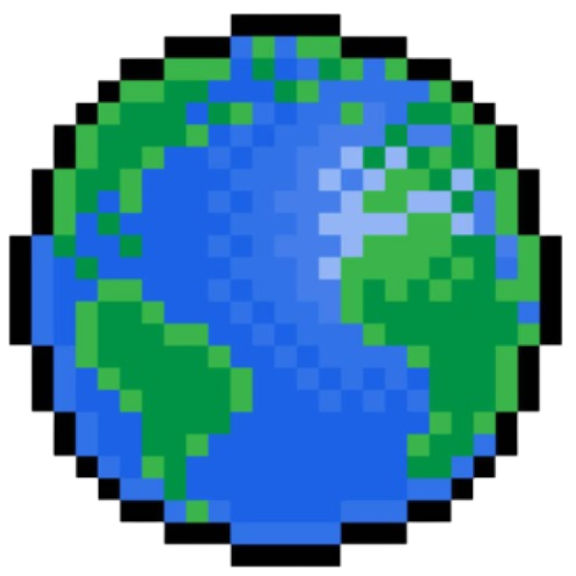
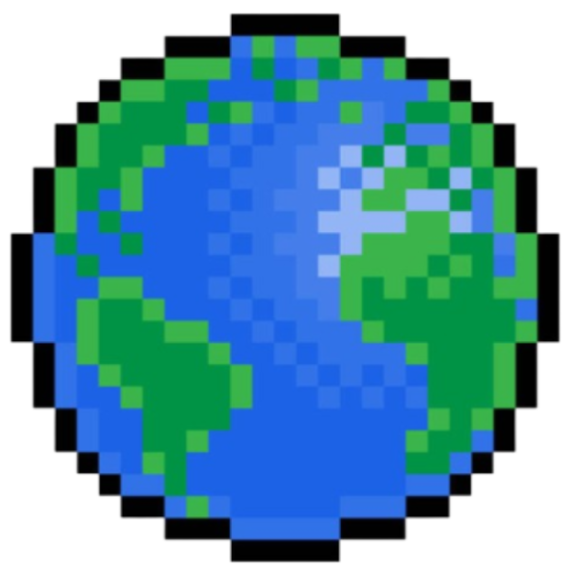
Oh wow background wooow

diff --git a/Capstone/GamePanel.java b/Capstone/GamePanel.java
@@ -21,11 +21,14 @@ public class GamePanel extends JPanel implements MouseListener{
     static Random random = new Random();
     Window window;
     Planet planet;
+
+    // Graphics and Panels
+    Image background;
     QTEPanel qtePanel;
     ObjectivePanel objPanel;
-
+    
     // GUI handling
-    JLabel planetLabel;
+    JLabel planetLabel = new JLabel();
     int planetLabelSize = 300;
     JLabel[] blockRectLabels = new JLabel[0];
     JTextArea[] blockTextLabels = new JTextArea[0];
@@ -58,13 +61,10 @@ public class GamePanel extends JPanel implements MouseListener{
         objPanel.setOpaque(false); // makes transparent
         objPanel.setBackground(new Color(0,0,0,0)); // makes transparent
         this.add(objPanel);
+        // Add background
+        background = new ImageIcon("assets/space_bg.png").getImage();
         // Add JLabels
-        Image planetImg = new ImageIcon("assets/rocky_planet.png").getImage().getScaledInstance(planetLabelSize,
-                planetLabelSize, Image.SCALE_DEFAULT);
-        ImageIcon planetIcon = new ImageIcon(planetImg);
-        planetLabel = new JLabel(planetIcon);
-        planetLabel.setBounds(40, 40, planetLabelSize, planetLabelSize);
-        this.add(planetLabel);
+        this.setPlanetLabel("assets/rocky_planet.png");
         ArrayList<JTextArea> permanentLabels = new ArrayList<JTextArea>();
         permanentLabels.add(Utils.gameHeadingPanel("Constitution of Planet", 40, 360, 300, 20));
         permanentLabels.add(Utils.gameHeadingPanel("Existing Creatures", 340, 360, 300, 20));
@@ -160,7 +160,7 @@ public class GamePanel extends JPanel implements MouseListener{
              blockTextLabels[i]
                      .setText(blockTextLabels[i].getText() + "\n" + planet.getBlockAtIndex(i).getProperty());
              blockTextLabels[i].setOpaque(true);
-             blockTextLabels[i].setBackground(Color.WHITE);
+             blockTextLabels[i].setBackground(Color.BLACK);
         }
     }
 
@@ -197,6 +197,22 @@ public class GamePanel extends JPanel implements MouseListener{
       }
     }
 
+    @Override
+    public void paintComponent(Graphics g) { // screen
+        Graphics2D g2d = (Graphics2D)g;
+        g2d.drawImage(background,0,0,null); //bg
+    }
+    
+    public void setPlanetLabel(String file) {
+        this.remove(planetLabel);
+        Image planetImg = new ImageIcon(file).getImage().getScaledInstance(planetLabelSize,
+                planetLabelSize, Image.SCALE_DEFAULT);
+        ImageIcon planetIcon = new ImageIcon(planetImg);
+        planetLabel = new JLabel(planetIcon);
+        planetLabel.setBounds(40, 40, planetLabelSize, planetLabelSize);
+        this.add(planetLabel);
+    } 
+    
     private void initTimers() {
         // this timer adds score every 2 sec
         new Timer(2000, new ActionListener() {

diff --git a/Capstone/Utils.java b/Capstone/Utils.java
@@ -39,7 +39,7 @@ public class Utils { // for fonts, custom colors, and other objects that are to 
         message.setBounds(x, y, w, h);
         message.setOpaque(false); // makes transparent
         message.setBackground(new Color(0,0,0,0)); // makes transparent
-        message.setForeground(Color.black);
+        message.setForeground(Color.white);
         message.setEditable(false);
         message.setLineWrap(true);
         message.setWrapStyleWord(true);
@@ -53,7 +53,7 @@ public class Utils { // for fonts, custom colors, and other objects that are to 
         message.setBounds(x, y, w, h);
         message.setOpaque(false); // makes transparent
         message.setBackground(new Color(0,0,0,0)); // makes transparent
-        message.setForeground(Color.black);
+        message.setForeground(Color.white);
         message.setEditable(false);
         message.setLineWrap(true);
         message.setWrapStyleWord(true);

diff --git a/Capstone/ObjectivePanel.java b/Capstone/ObjectivePanel.java
@@ -31,6 +31,7 @@ public class ObjectivePanel extends JPanel {
                   GamePanel.scorePerTwoSeconds += 20;
                   planet.addBlock(new IceBlock("Ice", 300)); // also add 300 ice
                   game.getQTEPanel().addChance("Soil"); // also increase chance of soil qtes
+                  game.setPlanetLabel("assets/earthy_planet.png"); // also change planet appearance 
                   GamePanel.creaturesCanAppear = true;
                   objectives.add(new Objective("Diverse life", "Create 4 or more creatures.\nReward: No more Water QTEs. Increase score per second. Humans appear.") {
                      public boolean isComplete() {
